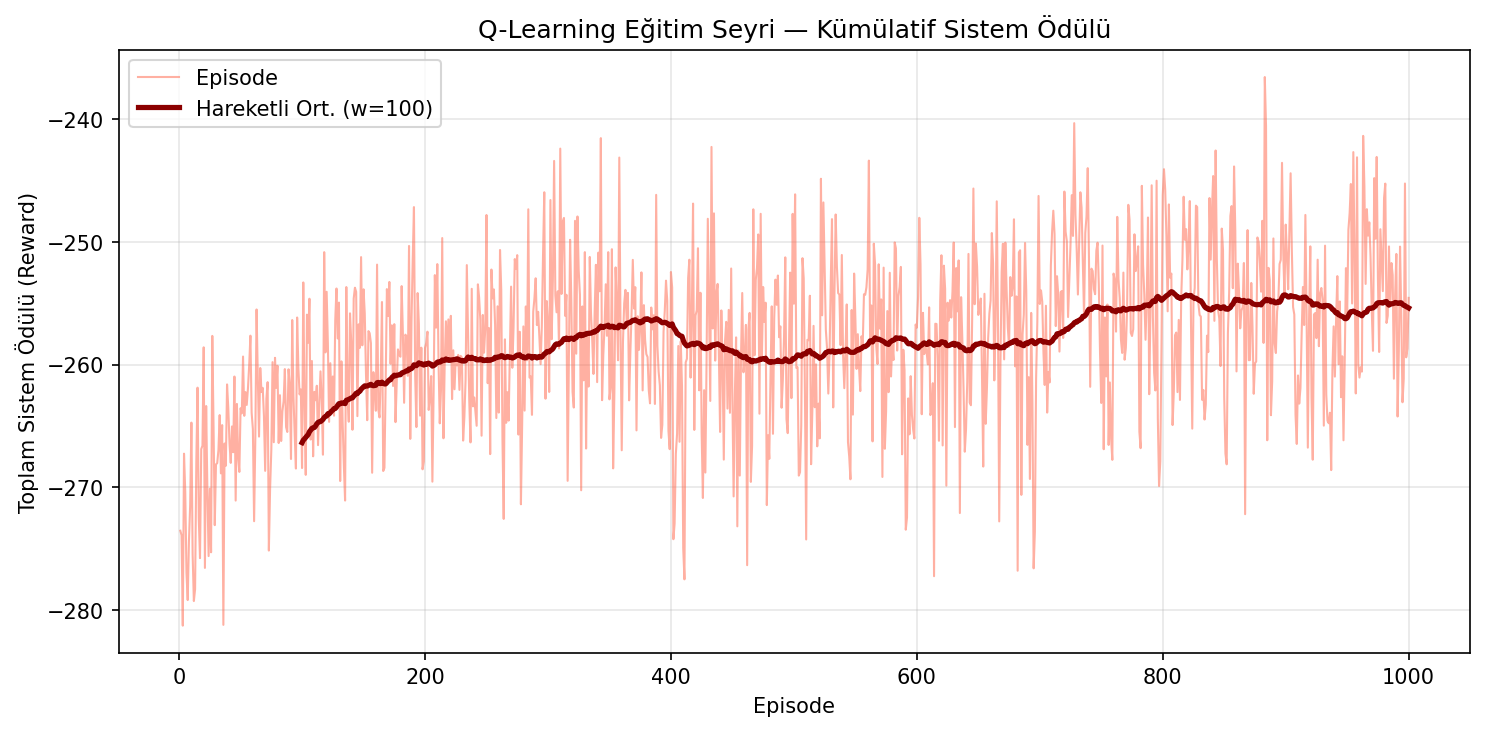
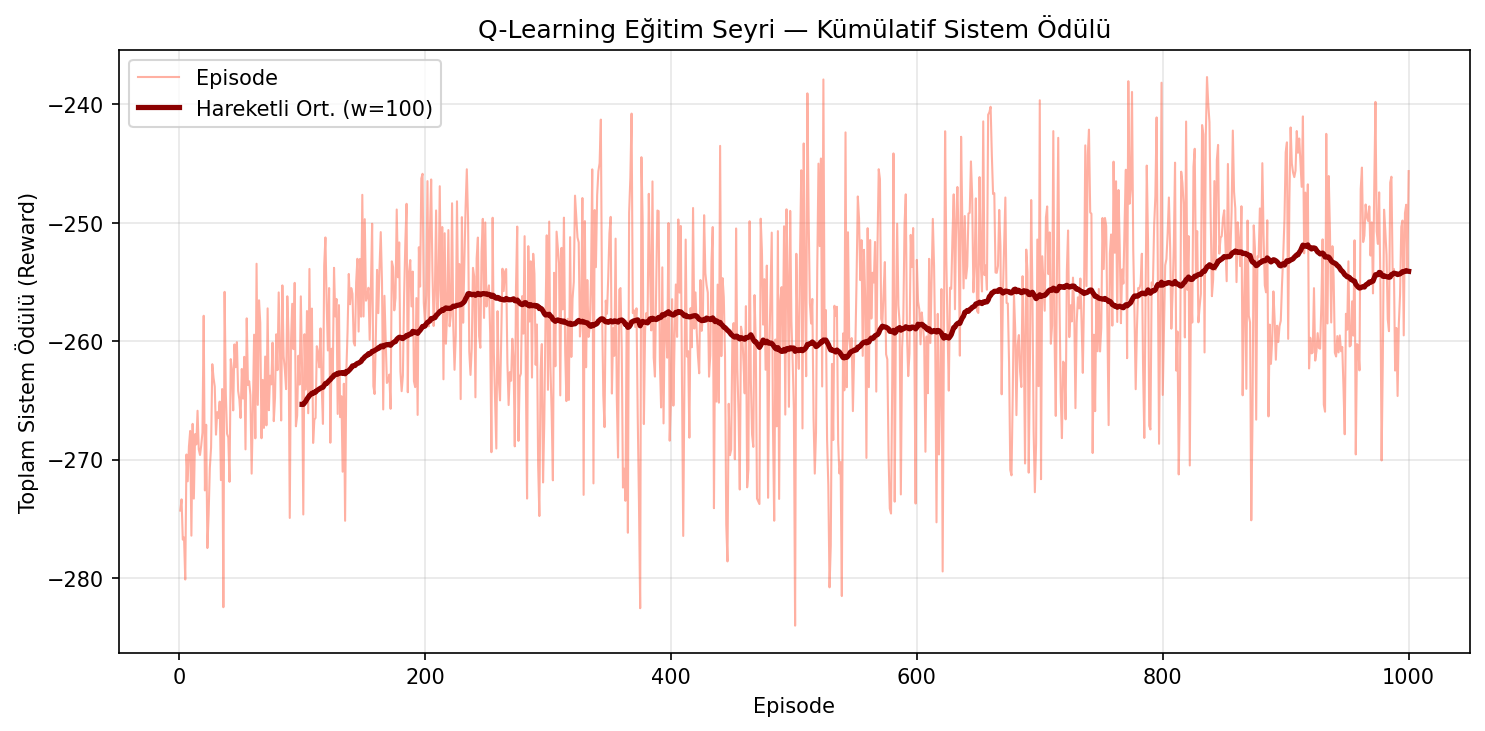
Bug Fix python3 -m src.comparison --episodes 1000 --nn_episodes 7000 --beta 1.5 --curtail-rate 0.0

diff --git a/src/comparison.py b/src/comparison.py
@@ -134,9 +134,31 @@ def _print_comparison_3way(
     nn_reward = nn_metrics.p2p_ratio() * 100
 
     n_prod = bl_metrics.n_agents // 2
-    bl_seller_rev = sum(-bl_metrics.agent_total_cost[i] for i in range(n_prod))
-    ql_seller_rev = sum(-ql_metrics.agent_total_cost[i] for i in range(n_prod))
-    nn_seller_rev = sum(-nn_metrics.agent_total_cost[i] for i in range(n_prod))
+
+    # Hocanın istediği: gerçek satıcı geliri ve alıcı maliyeti
+    bl_seller_rev   = bl_metrics.total_seller_revenue(n_prod)
+    ql_seller_rev   = ql_metrics.total_seller_revenue(n_prod)
+    nn_seller_rev   = nn_metrics.total_seller_revenue(n_prod)
+
+    bl_buyer_cost   = bl_metrics.total_buyer_cost(n_prod)
+    ql_buyer_cost   = ql_metrics.total_buyer_cost(n_prod)
+    nn_buyer_cost   = nn_metrics.total_buyer_cost(n_prod)
+
+    bl_p2p_sell     = bl_metrics.total_p2p_sell_income(n_prod)
+    ql_p2p_sell     = ql_metrics.total_p2p_sell_income(n_prod)
+    nn_p2p_sell     = nn_metrics.total_p2p_sell_income(n_prod)
+
+    bl_grid_sell_i  = bl_metrics.total_grid_sell_income(n_prod)
+    ql_grid_sell_i  = ql_metrics.total_grid_sell_income(n_prod)
+    nn_grid_sell_i  = nn_metrics.total_grid_sell_income(n_prod)
+
+    bl_p2p_buy      = bl_metrics.total_p2p_buy_cost(n_prod)
+    ql_p2p_buy      = ql_metrics.total_p2p_buy_cost(n_prod)
+    nn_p2p_buy      = nn_metrics.total_p2p_buy_cost(n_prod)
+
+    bl_grid_buy_c   = bl_metrics.total_grid_buy_cost(n_prod)
+    ql_grid_buy_c   = ql_metrics.total_grid_buy_cost(n_prod)
+    nn_grid_buy_c   = nn_metrics.total_grid_buy_cost(n_prod)
 
     def _pct(a, b):
         if abs(b) < 1e-9:
@@ -170,9 +192,6 @@ def _print_comparison_3way(
         ("Grid Satim/FiT (kWh)",
          f"{bl_grid_s:>10.2f}", f"{ql_grid_s:>10.2f}", f"{nn_grid_s:>10.2f}",
          _pct(ql_grid_s, bl_grid_s), _pct(nn_grid_s, bl_grid_s)),
-        ("Satici Geliri ($)",
-         f"{bl_seller_rev:>10.2f}", f"{ql_seller_rev:>10.2f}", f"{nn_seller_rev:>10.2f}",
-         _pct(ql_seller_rev, bl_seller_rev), _pct(nn_seller_rev, bl_seller_rev)),
         ("Ort. P2P Fiyati ($/kWh)",
          f"{bl_price:>10.4f}", f"{ql_price:>10.4f}", f"{nn_price:>10.4f}",
          _pct(ql_price, bl_price), _pct(nn_price, bl_price)),
@@ -188,6 +207,39 @@ def _print_comparison_3way(
         _w(f"|  {label:<26} {bv} {qv} {nv}  {dql}  {dnn}  |")
     _w("+" + "=" * width + "+")
     _w("  (ΔQL, ΔNN = Baseline'a göre değişim yüzdesi)")
+    _w()
+
+    # ── Hocanın istediği: Satıcı Geliri & Alıcı Maliyet tablosu ─────────
+    _w("+" + "=" * width + "+")
+    _w(f"|{'  SATICI GELİRİ & ALICI MALİYET ANALİZİ':^{width}}|")
+    _w("+" + "=" * width + "+")
+    _w(f"|  {'Kalem':<30} {'Baseline':>10} {'QL(B+S)':>10} {'NN(B+S)':>10}  {'ΔQL':>7}  {'ΔNN':>7}  |")
+    _w(f"|  {'-' * (width - 4)}  |")
+    welfare_rows = [
+        ("SATICI: P2P Geliri ($)",
+         f"{bl_p2p_sell:>10.2f}", f"{ql_p2p_sell:>10.2f}", f"{nn_p2p_sell:>10.2f}",
+         _pct(ql_p2p_sell, bl_p2p_sell), _pct(nn_p2p_sell, bl_p2p_sell)),
+        ("SATICI: Grid FiT Geliri ($)",
+         f"{bl_grid_sell_i:>10.2f}", f"{ql_grid_sell_i:>10.2f}", f"{nn_grid_sell_i:>10.2f}",
+         _pct(ql_grid_sell_i, bl_grid_sell_i), _pct(nn_grid_sell_i, bl_grid_sell_i)),
+        ("SATICI: TOPLAM GELİR ($)",
+         f"{bl_seller_rev:>10.2f}", f"{ql_seller_rev:>10.2f}", f"{nn_seller_rev:>10.2f}",
+         _pct(ql_seller_rev, bl_seller_rev), _pct(nn_seller_rev, bl_seller_rev)),
+        ("ALICI: P2P Alim Maliyeti ($)",
+         f"{bl_p2p_buy:>10.2f}", f"{ql_p2p_buy:>10.2f}", f"{nn_p2p_buy:>10.2f}",
+         _pct(ql_p2p_buy, bl_p2p_buy), _pct(nn_p2p_buy, bl_p2p_buy)),
+        ("ALICI: Grid ToU Maliyeti ($)",
+         f"{bl_grid_buy_c:>10.2f}", f"{ql_grid_buy_c:>10.2f}", f"{nn_grid_buy_c:>10.2f}",
+         _pct(ql_grid_buy_c, bl_grid_buy_c), _pct(nn_grid_buy_c, bl_grid_buy_c)),
+        ("ALICI: TOPLAM MALİYET ($)",
+         f"{bl_buyer_cost:>10.2f}", f"{ql_buyer_cost:>10.2f}", f"{nn_buyer_cost:>10.2f}",
+         _pct(ql_buyer_cost, bl_buyer_cost), _pct(nn_buyer_cost, bl_buyer_cost)),
+    ]
+    for label, bv, qv, nv, dql, dnn in welfare_rows:
+        _w(f"|  {label:<30} {bv} {qv} {nv}  {dql}  {dnn}  |")
+    _w("+" + "=" * width + "+")
+    _w("  * P2P sıfır toplamlıdır: satıcı P2P geliri = alıcı P2P maliyeti")
+    _w("  * Toplam alıcı maliyeti düşüyorsa sistem alıcıya fayda sağlıyor demektir.")
     _w()
 
 
@@ -443,6 +495,16 @@ def run_comparison(
 
     # ── 4. 3-Yol Karşılaştırma Tablosu ───────────────────────────────
     _print_comparison_3way(bl_metrics, ql_metrics, nn_metrics, file=summary_file)
+
+    # ── 5. Welfare summary (her model için ayrı ayrı) ─────────────────
+    n_prod = config.n_producers
+    for label, m in [("BASELINE", bl_metrics), ("Q-LEARNING", ql_metrics), ("REINFORCE-NN", nn_metrics)]:
+        welfare_str = m.summary_welfare(n_prod)
+        print(f"\n[{label}]")
+        print(welfare_str)
+        if summary_file is not None:
+            summary_file.write(f"\n[{label}] WELFARE ANALIZI\n")
+            summary_file.write(welfare_str + "\n")
     plot_comparison(
         bl_metrics, ql_metrics, ql_ep_costs, save_dir=save_dir,
         nn_metrics=nn_metrics, nn_episode_costs=nn_ep_costs,

diff --git a/src/metrics.py b/src/metrics.py
@@ -44,6 +44,11 @@ class MetricsCollector:
         self.agent_total_curtailed: Dict[int, float] = {i: 0.0 for i in range(n_agents)}
         self.agent_grid_purchased: Dict[int, float] = {i: 0.0 for i in range(n_agents)}
         self.agent_grid_sold: Dict[int, float] = {i: 0.0 for i in range(n_agents)}
+        # Gelir/maliyet ayrıştırması (hocanın istediği)
+        self.agent_p2p_sell_income: Dict[int, float] = {i: 0.0 for i in range(n_agents)}
+        self.agent_p2p_buy_cost: Dict[int, float] = {i: 0.0 for i in range(n_agents)}
+        self.agent_grid_sell_income: Dict[int, float] = {i: 0.0 for i in range(n_agents)}
+        self.agent_grid_buy_cost: Dict[int, float] = {i: 0.0 for i in range(n_agents)}
     
     def record_hour(self, metrics: HourlyMetrics):
         """Record metrics for one hour."""
@@ -59,6 +64,10 @@ class MetricsCollector:
         curtailed: float,
         grid_purchased: float = 0.0,
         grid_sold: float = 0.0,
+        p2p_sell_income: float = 0.0,
+        p2p_buy_cost: float = 0.0,
+        grid_sell_income: float = 0.0,
+        grid_buy_cost: float = 0.0,
     ):
         """Record per-agent results for one hour."""
         self.agent_total_cost[agent_id] += cost
@@ -68,6 +77,10 @@ class MetricsCollector:
         self.agent_total_curtailed[agent_id] += curtailed
         self.agent_grid_purchased[agent_id] += grid_purchased
         self.agent_grid_sold[agent_id] += grid_sold
+        self.agent_p2p_sell_income[agent_id] += p2p_sell_income
+        self.agent_p2p_buy_cost[agent_id] += p2p_buy_cost
+        self.agent_grid_sell_income[agent_id] += grid_sell_income
+        self.agent_grid_buy_cost[agent_id] += grid_buy_cost
     
     # ---- Aggregate metrics ----
     
@@ -126,6 +139,32 @@ class MetricsCollector:
         total = p2p + grid
         return p2p / total if total > 0 else 0.0
     
+    def total_seller_revenue(self, n_producers: int) -> float:
+        """Toplam satıcı geliri = P2P geliri + grid FiT geliri (üretici ajanlar)."""
+        return sum(
+            self.agent_p2p_sell_income[i] + self.agent_grid_sell_income[i]
+            for i in range(n_producers)
+        )
+
+    def total_buyer_cost(self, n_producers: int) -> float:
+        """Toplam alıcı maliyeti = P2P alım maliyeti + grid ToU maliyeti (tüketici ajanlar)."""
+        return sum(
+            self.agent_p2p_buy_cost[i] + self.agent_grid_buy_cost[i]
+            for i in range(n_producers, self.n_agents)
+        )
+
+    def total_p2p_sell_income(self, n_producers: int) -> float:
+        return sum(self.agent_p2p_sell_income[i] for i in range(n_producers))
+
+    def total_grid_sell_income(self, n_producers: int) -> float:
+        return sum(self.agent_grid_sell_income[i] for i in range(n_producers))
+
+    def total_p2p_buy_cost(self, n_producers: int) -> float:
+        return sum(self.agent_p2p_buy_cost[i] for i in range(n_producers, self.n_agents))
+
+    def total_grid_buy_cost(self, n_producers: int) -> float:
+        return sum(self.agent_grid_buy_cost[i] for i in range(n_producers, self.n_agents))
+
     def get_agent_bills(self) -> Dict[int, float]:
         """Get final energy bills for all agents."""
         return dict(self.agent_total_cost)
@@ -164,4 +203,33 @@ class MetricsCollector:
         
         lines.append("")
         lines.append("=" * 60)
+        return "\n".join(lines)
+
+    def summary_welfare(self, n_producers: int) -> str:
+        """Hocanın istediği: satıcı geliri ve alıcı maliyet ayrıştırması."""
+        p2p_sell  = self.total_p2p_sell_income(n_producers)
+        grid_sell = self.total_grid_sell_income(n_producers)
+        p2p_buy   = self.total_p2p_buy_cost(n_producers)
+        grid_buy  = self.total_grid_buy_cost(n_producers)
+        tot_sell  = p2p_sell + grid_sell
+        tot_buy   = p2p_buy + grid_buy
+
+        lines = [
+            "=" * 60,
+            "  SATICI GELİRİ & ALICI MALİYET ANALİZİ",
+            "=" * 60,
+            "",
+            f"  --- Satıcı Geliri (Producer agents 0-{n_producers-1}) ---",
+            f"  P2P Geliri:           ${p2p_sell:>10.4f}",
+            f"  Grid FiT Geliri:      ${grid_sell:>10.4f}",
+            f"  TOPLAM SATICI GELİRİ: ${tot_sell:>10.4f}",
+            "",
+            f"  --- Alıcı Maliyeti (Consumer agents {n_producers}-{self.n_agents-1}) ---",
+            f"  P2P Alım Maliyeti:    ${p2p_buy:>10.4f}",
+            f"  Grid ToU Maliyeti:    ${grid_buy:>10.4f}",
+            f"  TOPLAM ALICI MALİYETİ:${tot_buy:>10.4f}",
+            "",
+            f"  P2P Zero-Sum Kontrolü (P2P gelir - P2P maliyet): ${p2p_sell - p2p_buy:.4f}",
+            "=" * 60,
+        ]
         return "\n".join(lines)

diff --git a/src/environment.py b/src/environment.py
@@ -256,6 +256,8 @@ class EnergyTradingEnv:
                     unit_orders.append(agg_buy)
                 else:
                     # Baseline heuristic: MB eğrisi × multiplier ile ünite bazlı emir.
+                    # Tavan: ToU — grid fallback varken alıcı asla ToU'dan fazla ödemez.
+                    tou_cap = getattr(self.config, "tou_price", 0.28)
                     base_price = agent.compute_mb(order.quantity, hour=self.current_hour)
                     multiplier = order.price / base_price if base_price > 1e-6 else 1.0
 
@@ -266,7 +268,7 @@ class EnergyTradingEnv:
                             break
 
                         raw_u_price = agent.compute_mb(cum_qty, hour=self.current_hour)
-                        u_price = float(np.clip(raw_u_price * multiplier, 0.001, 2.0))
+                        u_price = float(np.clip(raw_u_price * multiplier, 0.001, tou_cap))
 
                         ind_order = Order(
                             agent_id=agent.agent_id,
@@ -398,20 +400,26 @@ class EnergyTradingEnv:
 
             rewards[agent_id] = agent.get_reward(hour)
 
-            fit_price   = self.config.fit_price
-            tou_price   = self.config.tou_price
-            buy_cost    = sum(t.price * t.quantity for t in trades_as_buyer)
-            sell_income = sum(t.price * t.quantity for t in trades_as_seller)
-            grid_cost   = grid_purchased * tou_price - grid_sold * fit_price
+            fit_price        = self.config.fit_price
+            tou_price        = self.config.tou_price
+            buy_cost         = sum(t.price * t.quantity for t in trades_as_buyer)
+            sell_income      = sum(t.price * t.quantity for t in trades_as_seller)
+            grid_sell_income = grid_sold * fit_price
+            grid_buy_cost    = grid_purchased * tou_price
+            net_cost         = buy_cost + grid_buy_cost - sell_income - grid_sell_income
             self.metrics.record_agent_hour(
                 agent_id=agent_id,
-                cost=buy_cost - sell_income + grid_cost,
+                cost=net_cost,
                 bought=bought_kwh,
                 sold=sold_kwh,
                 unmet=unmet_demand,
                 curtailed=curtailed_surplus,
                 grid_purchased=grid_purchased,
                 grid_sold=grid_sold,
+                p2p_sell_income=sell_income,
+                p2p_buy_cost=buy_cost,
+                grid_sell_income=grid_sell_income,
+                grid_buy_cost=grid_buy_cost,
             )
 
         # --- Step 7: Record hourly metrics ---

diff --git a/src/baseline_agent.py b/src/baseline_agent.py
@@ -91,9 +91,14 @@ class BaselineAgent(EnergyAgent):
     # ------------------------------------------------------------------
 
     def _buyer_price(self, quantity: float, hour: int) -> float:
-        """Alıcı teklif fiyatı: MB (Marginal Benefit) eğrisindeki formüle göre."""
+        """Alıcı teklif fiyatı: MB eğrisi, ancak ToU tavanıyla sınırlı.
+
+        Grid fallback varken rasyonel alıcı asla ToU'dan fazla ödemez:
+        P2P'de ToU'dan pahalıya almak yerine grid'den alır.
+        """
+        tou = getattr(self.config, "tou_price", 0.28)
         price = self.compute_mb(quantity, hour=hour)
-        return float(np.clip(price, 0.001, 2.0))
+        return float(np.clip(price, 0.001, tou))
 
     def _seller_price(self, quantity: float) -> float:
         """Satıcı istek fiyatı: Use-It-or-Lose-It (UILI) üstel formülüne göre."""
